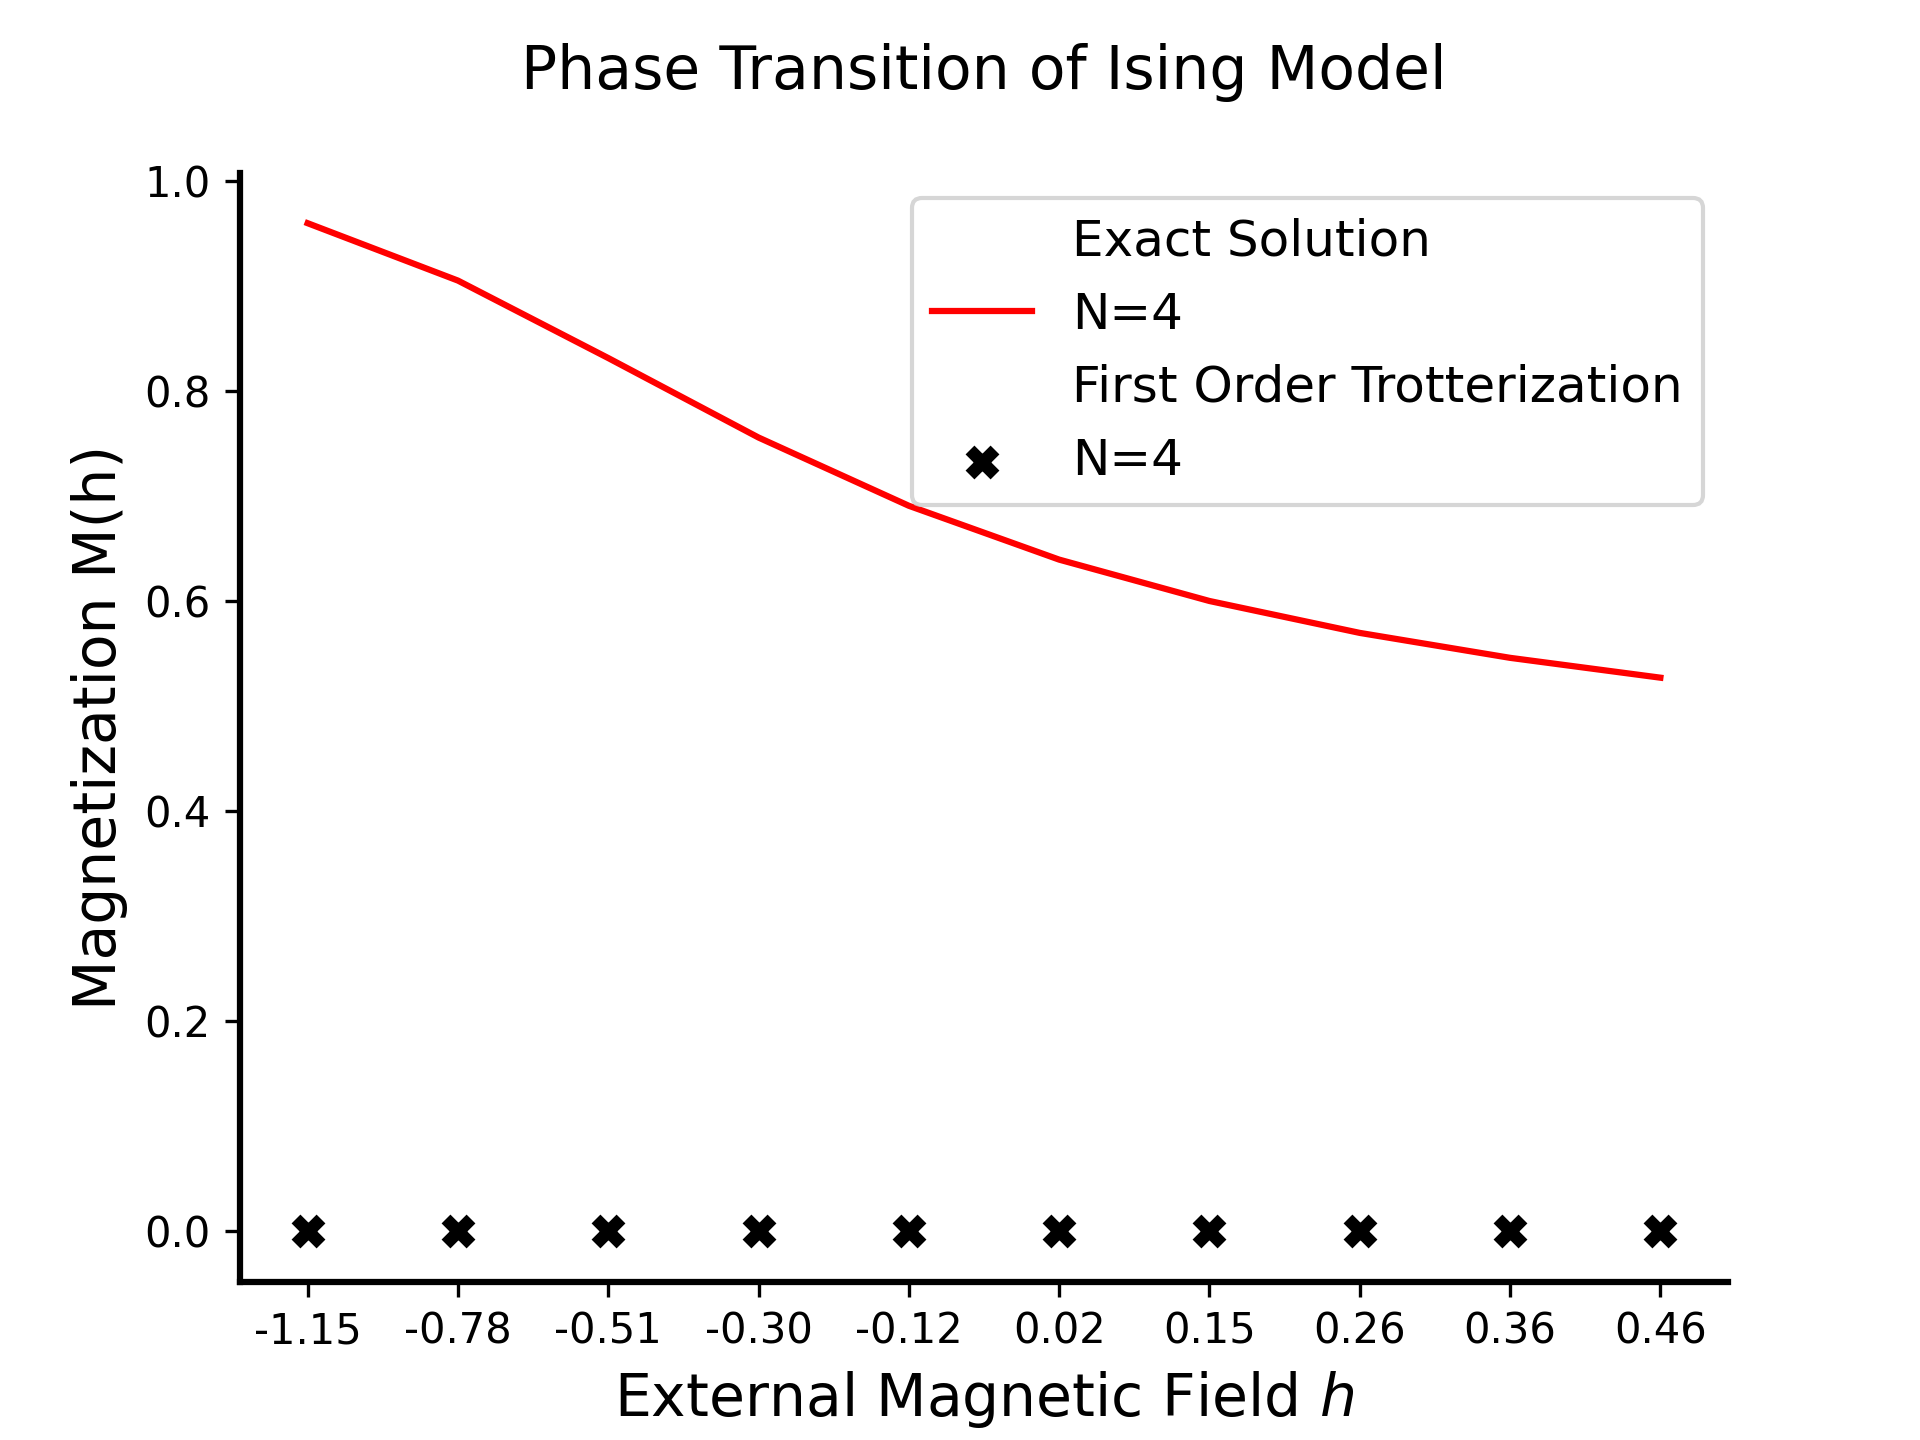
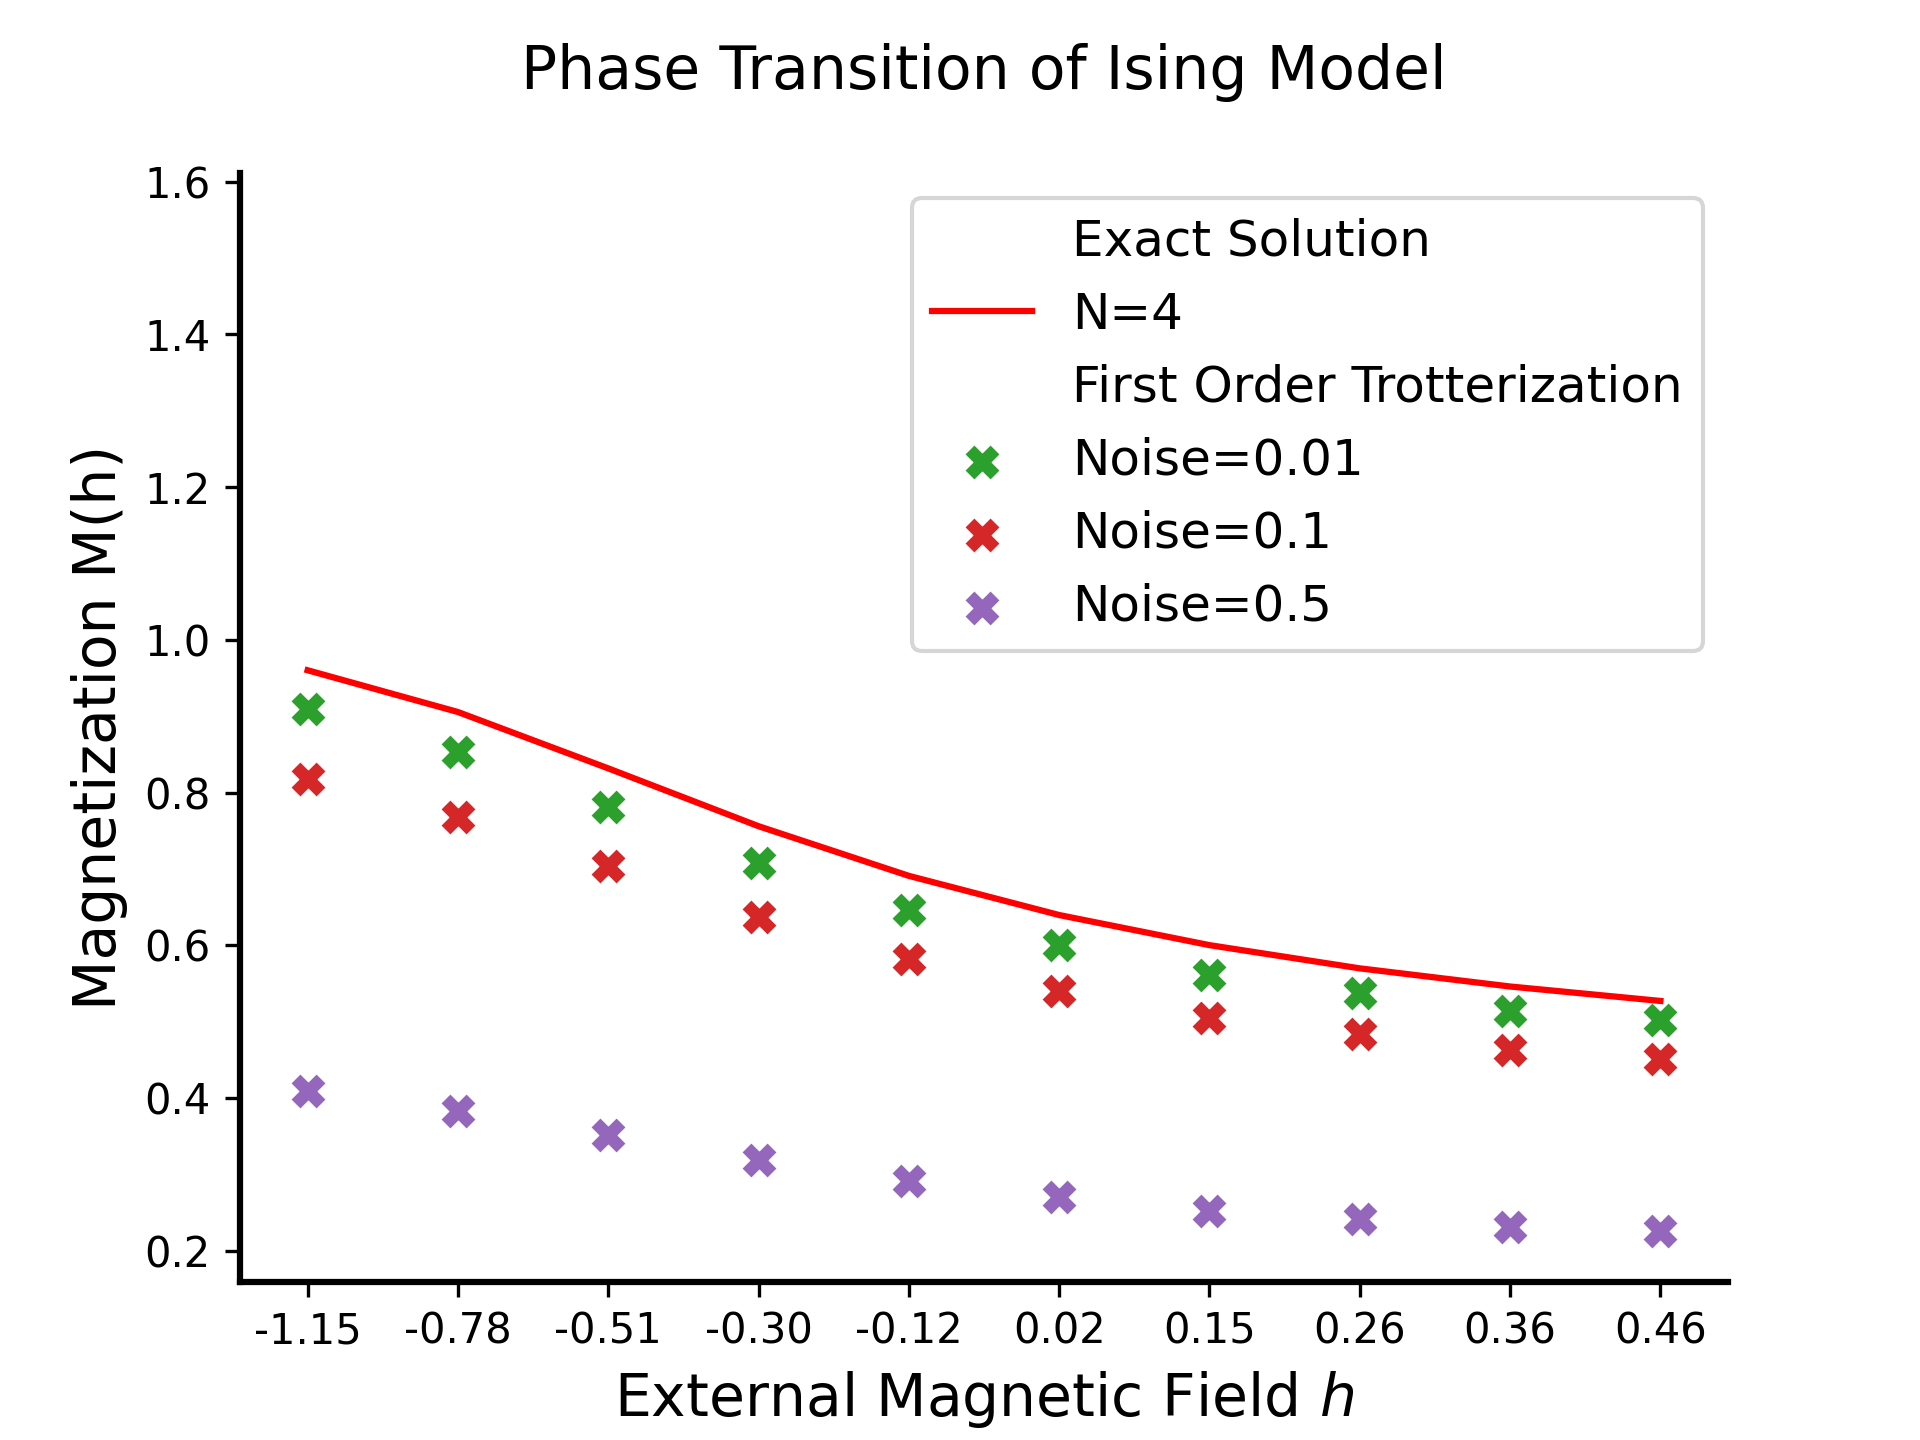
Noisy plotter and formatter works

diff --git a/ising/plotter/groundstate/magnetization_noise.py b/ising/plotter/groundstate/magnetization_noise.py
@@ -8,8 +8,10 @@ from matplotlib.patches import Patch
 from ising.utils import read_json, read_input_file
 from typing import TypeAlias
 
+# Noise -> Qubit -> h -> values
+NoisyResult: TypeAlias = dict[float, dict[float, dict[float, float]]]
 # Qubit -> h -> values
-Result: TypeAlias = dict[str, dict[float, float]]
+Result: TypeAlias = dict[float, dict[float, float]]
 
 
 METHOD_NAMES = {
@@ -23,10 +25,11 @@ METHOD_NAMES = {
 }
 
 
-def _get_point(res: Result) -> float:
-    for _, h_wise_results in res.items():
-        for _, result in h_wise_results.items():
-            return abs(result)
+def _get_point(res: NoisyResult) -> float:
+    for _, qubit_wise_results in res.items():
+        for _, h_wise_results in qubit_wise_results.items():
+            for _, result in h_wise_results.items():
+                return abs(result)
 
     raise ValueError("Empty Result provided")
 
@@ -38,6 +41,7 @@ def log_label_maker(values: list[float]) -> list[str]:
 def plot_method(paras, results: Result, **kwargs):
     style = kwargs.get("style")
     color = kwargs.get("color")
+    label = kwargs.get("label")
 
     for num_qubit, h_wise_results in results.items():
         # h_wise_results: h -> magn
@@ -47,10 +51,10 @@ def plot_method(paras, results: Result, **kwargs):
             ax = sns.scatterplot(
                 x=x_values,
                 y=y_values,
-                label=f"N={num_qubit}",
+                label=label,
                 marker=style,
                 linewidth=3,
-                color=color,
+                # color=color,
             )
         else:
             ax = sns.lineplot(
@@ -59,7 +63,7 @@ def plot_method(paras, results: Result, **kwargs):
 
 
 def plot_combined(
-    paras, method_wise_results: dict[str, Result], diagram_name, **kwargs
+    paras, method_wise_results: dict[str, NoisyResult], diagram_name, **kwargs
 ):
     scale = kwargs.get("scale", (1, 1))
     styles = kwargs.get("labels", ["L"] * len(method_wise_results))
@@ -73,15 +77,35 @@ def plot_combined(
     plt.rcParams.update({"font.size": 12})
     plt.rcParams.update({"font.family": "sans-serif"})
 
-    for ind, (method, results) in enumerate(method_wise_results.items()):
-        h_value = _get_point(results)
-        sns.scatterplot(
-            x=[max_h * scale[0]],
-            y=[h_value * scale[1]],
-            alpha=0.0,
-            label=METHOD_NAMES[method],
-        )
-        plot_method(paras, results, style=styles[ind], color=colors[ind])
+    for ind, (method, noisy_results) in enumerate(method_wise_results.items()):
+        if method != "analytical":
+            h_value = _get_point(noisy_results)
+            sns.scatterplot(
+                x=[max_h * scale[0]],
+                y=[h_value * scale[1]],
+                alpha=0.0,
+                label=METHOD_NAMES[method],
+            )
+        else:
+            h_value = _get_point({0.0: noisy_results})
+            sns.scatterplot(
+                x=[max_h * scale[0]],
+                y=[h_value * scale[1]],
+                alpha=0.0,
+                label=METHOD_NAMES[method],
+            )
+
+        if method != "analytical":
+            for noise, results in noisy_results.items():
+                plot_method(
+                    paras,
+                    results,
+                    style=styles[ind],
+                    color=colors[ind],
+                    label=f"Noise={noise}",
+                )
+        else:
+            plot_method(paras, noisy_results, style=styles[ind], color=colors[ind])
 
     # SETTING: AXIS VISIBILITY
     ax.spines["top"].set_visible(False)
@@ -110,12 +134,8 @@ def plot_combined(
     print(f"Saving diagram at {diagram_name}")
 
 
-def main():
-    parser = argparse.ArgumentParser(description="Overall magnetization of Ising")
-    parser.add_argument("--input", type=str, help="File for input parameters.")
-    args = parser.parse_args()
-    plotfig = read_json(args.input)
-
+def file_run(input_file):
+    plotfig = read_json(input_file)
     method_input_file = plotfig["input_file"]
     input_paras = read_input_file(method_input_file)
     start_qubit, end_qubit = input_paras["start_qubit"], input_paras["end_qubit"]
@@ -124,9 +144,15 @@ def main():
     method_combined = "_".join(plotfig["methods"])
 
     for method in plotfig["methods"]:
-        method_output_file = (
-            f"data/groundstate/{method}_{start_qubit}_to_{end_qubit}.json"
-        )
+        if method != "analytical":
+            method_output_file = (
+                f"data/groundstate/noisy_{method}_{start_qubit}_to_{end_qubit}.json"
+            )
+        else:
+            method_output_file = (
+                f"data/groundstate/analytical_{start_qubit}_to_{end_qubit}.json"
+            )
+
         results = read_json(method_output_file)
         method_wise_results[method] = results
 
@@ -134,6 +160,17 @@ def main():
         f"plots/groundstate/noisy_{method_combined}_{start_qubit}_to_{end_qubit}.png"
     )
     plot_combined(input_paras, method_wise_results, diagram_name, **plotfig)
+
+
+def main():
+    parser = argparse.ArgumentParser(description="Overall magnetization of Ising")
+    parser.add_argument("--input", type=str, help="File for input parameters.")
+    args = parser.parse_args()
+    file_run(args.input)
+
+
+def test_main():
+    file_run("data/plotfig/groundstate_noisy.json")
 
 
 if __name__ == "__main__":

diff --git a/ising/groundstate/simulation/noise/run_numerical.py b/ising/groundstate/simulation/noise/run_numerical.py
@@ -29,21 +29,42 @@ SYNTH_MAP = {
 }
 
 
+def transform_noisy_results(
+    init_results: dict[int, dict[float, list[float]]], parameters: list[float]
+) -> dict[float, dict[int, dict[float, float]]]:
+    """
+    Transforms the result dictionary from one form to the other.
+
+    Initial form: dict[qubit, dict[h_value, list[answer]]]
+    Here list[answers] is of the size parameters. Each answer corresponds to
+    a parameter value for given qubit and h_value.
+
+    Final form: dict[noise, dict[qubit, dict[h_value, answer]]]
+    Here we have moved the noise to the top level for easier evaluation when
+    plotting.
+    """
+    transformed_results = {}
+
+    # Iterate over each qubit
+    for qubit, h_value_dict in init_results.items():
+        # For each h_value, create a dictionary mapping noise to answer
+        for h_value, answers in h_value_dict.items():
+            # Iterate over each noise level
+            for i, noise in enumerate(parameters):
+                # Associate noise with a dictionary mapping qubit to h_value to answer
+                if noise not in transformed_results:
+                    transformed_results[noise] = {}
+                if qubit not in transformed_results[noise]:
+                    transformed_results[noise][qubit] = {}
+                transformed_results[noise][qubit][h_value] = answers[i]
+
+    return transformed_results
+
+
 def run_numerical(paras):
-    qubit_wise_answers = {}
     h_values = np.linspace(
         10 ** paras["start_h"], 10 ** paras["end_h"], paras["count_h"]
     )
-
-    noise = paras.get("noise", "identity")
-    if noise == "depolarization":
-        polarization_lst = paras.get("polarization", [0.0])
-        noise_fns = [lambda qubits: depolarization(polarization, qubits) for polarization in polarization_lst]
-    elif noise == "identity":
-        noise_fns = [lambda x: x]
-    else:
-        raise ValueError(f"Unknown noise channel: {noise}")
-
     qubits = map(
         int, np.linspace(paras["start_qubit"], paras["end_qubit"], paras["qubit_count"])
     )
@@ -52,12 +73,27 @@ def run_numerical(paras):
     if circuit_synthesis is None:
         raise ValueError(f"Incorrect synthesis method: {paras['method']}")
 
+    noise = paras.get("noise", "identity")
+    # Result: dict[dict[qubit, dict[h, [answer]]]]
+    if noise == "depolarization":
+        parameters = paras.get("polarization", [0.0])
+    else:
+        raise ValueError("Unknown noise parameter")
+
+    qubit_wise_answers = {}
     for num_qubit in qubits:
         observable = overall_magnetization(num_qubit)
         h_para = Parameter("h")
         parametrized_ham = parametrized_ising(num_qubit, h_para)
+
         circuit_manager = circuit_synthesis(parametrized_ham, h_para, paras["error"])
-        noise_lst = [noise_fn(num_qubit + 1) for noise_fn in noise_fns] # one ancilla qubit
+        if noise == "depolarization":
+            noise_fns = [
+                depolarization(polarization, num_qubit + 1)  # Ancilla qubit
+                for polarization in parameters
+            ]
+        else:
+            raise ValueError("Unknown noise parameter")
 
         h_wise_answers = {}
         for h in h_values:
@@ -70,16 +106,13 @@ def run_numerical(paras):
                 overlap=paras["overlap"],
                 error=paras["error"],
                 success=paras["success"],
-                noise=noise_lst
+                noise=noise_fns,
             )
-
-            h_noisy_answers = lcu_run.calculate_mu()
-
             h_wise_answers[h] = lcu_run.calculate_mu()
 
         qubit_wise_answers[num_qubit] = h_wise_answers
 
-    return qubit_wise_answers
+    return transform_noisy_results(qubit_wise_answers, parameters)
 
 
 def file_numerical(file_name):
@@ -87,7 +120,7 @@ def file_numerical(file_name):
 
     results = run_numerical(parameters)
 
-    file_name = f"data/groundstate/{parameters['method']}_{parameters['start_qubit']}_to_{parameters['end_qubit']}.json"
+    file_name = f"data/groundstate/noisy_{parameters['method']}_{parameters['start_qubit']}_to_{parameters['end_qubit']}.json"
 
     print(f"Saving results at: {file_name}")
     with open(file_name, "w") as file:
@@ -105,7 +138,7 @@ def main():
 
 
 def test_main():
-    file_numerical("data/input/groundstate.json")
+    file_numerical("data/input/noisy_groundstate.json")
 
 
 if __name__ == "__main__":

diff --git a/ising/utils/read_input.py b/ising/utils/read_input.py
@@ -14,7 +14,7 @@ def read_input_file(file_name):
         "qubit_count",
     }
     STRING = {"method", "noise"}
-    ARRAYS = {"depolarization"}
+    ARRAYS = {"polarization"}
 
     for key, value in data.items():
         if key in INTEGERS:
